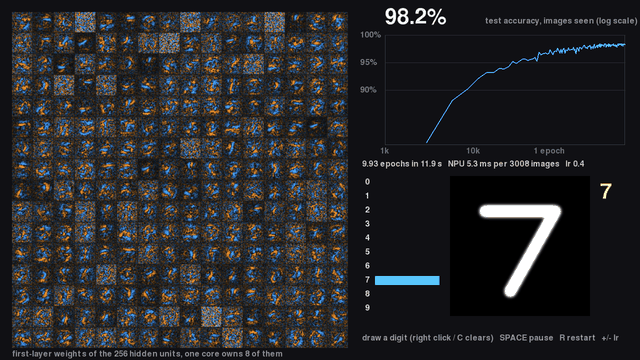
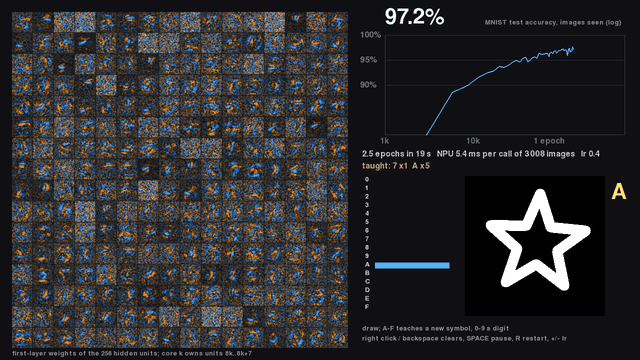
mnist_npu: teach it new symbols live (classes A-F), 16-class output
The six spare logits are live classes now. In --window, draw a symbol and
press A-F (or a digit): an eighth of every following minibatch is the
taught examples, augmented (shift, rotation, scale) and mixed into MNIST.
Five stars as "A" are enough for a new star to be recognised after a few
seconds of training while MNIST stays at 97%. The README picture shows it.

diff --git a/fun/mnist_npu.py b/fun/mnist_npu.py
@@ -3,7 +3,9 @@
 
   ./env.sh python fun/mnist_npu.py --selftest        init bit-exact vs numpy, one step vs a numpy replica, 1 epoch
   ./env.sh python fun/mnist_npu.py --epochs 5        train, test accuracy after every epoch, NPU time per epoch
-  ./env.sh python fun/mnist_npu.py --window          watch it learn: weights, accuracy curve, draw a digit (mouse)
+  ./env.sh python fun/mnist_npu.py --window          watch it learn: weights, accuracy curve, draw a digit (mouse),
+                                                     teach it new symbols (draw, then press A-F)
+  ./env.sh python fun/mnist_npu.py --bench           one epoch per dispatch, back to back
 
 A 784-256-10 multilayer perceptron (ReLU, softmax cross-entropy, plain SGD, batch 64) trained with bf16 matmuls into
 fp32 accumulators and fp32 master weights. Model parallel: core k (along a snake through the 32 cores, so that
@@ -33,7 +35,7 @@ CPB = 7                         # pixel blocks per chunk
 NCH = NPB // CPB                # chunks per pass
 XOBJ = CPB * NBB * 128          # bytes of a stream object (7168): bf16 tiles
 NHID, UPC = 256, 8              # hidden units, units per core
-NOUT = 16                       # logits padded to 16 (10 used)
+NOUT = 16                       # classes: 10 digits + 6 symbols the window can teach
 DOBJ = 3136                     # dump object bytes (W1 slice = 8 objects)
 NDUMP = 9
 COLS, ROWS = 8, 4
@@ -120,7 +122,7 @@ class Model:
 
     @classmethod
     def init(cls, seed):
-        W1 = np.zeros((784, NHID), np.float32); W2 = np.zeros((NHID, 10), np.float32)
+        W1 = np.zeros((784, NHID), np.float32); W2 = np.zeros((NHID, NOUT), np.float32)
         for k in range(NCORE):
             w1, s = xorshift_init(seed, k, NPB * 64, 27)
             W1[:, k * UPC:(k + 1) * UPC] = np.transpose(w1.reshape(NPB, UPC, 8), (0, 2, 1)).reshape(784, UPC)
@@ -128,14 +130,13 @@ class Model:
             for i in range(4):
                 s ^= s << np.uint32(13); s ^= s >> np.uint32(17); s ^= s << np.uint32(5)
                 w2[i * 32:(i + 1) * 32] = (s.view(np.int32) >> 8).astype(np.float32) * np.float32(2.0 ** -26)
-            w2 = w2.reshape(16, UPC)                                    # [o][u]
-            W2[k * UPC:(k + 1) * UPC] = w2[:10].T
-        return cls(W1, np.zeros(NHID, np.float32), W2, np.zeros(10, np.float32))
+            W2[k * UPC:(k + 1) * UPC] = w2.reshape(NOUT, UPC).T              # [o][u]
+        return cls(W1, np.zeros(NHID, np.float32), W2, np.zeros(NOUT, np.float32))
 
     @classmethod
     def from_dump(cls, dump):
         """dump: (NCORE, NDUMP * DOBJ) bytes in snake order."""
-        W1 = np.zeros((784, NHID), np.float32); W2 = np.zeros((NHID, 10), np.float32); b1 = np.zeros(NHID, np.float32)
+        W1 = np.zeros((784, NHID), np.float32); W2 = np.zeros((NHID, NOUT), np.float32); b1 = np.zeros(NHID, np.float32)
         b2 = None; stats = None
         for k in range(NCORE):
             d = dump[k]
@@ -143,10 +144,10 @@ class Model:
             W1[:, k * UPC:(k + 1) * UPC] = np.transpose(w1, (0, 2, 1)).reshape(784, UPC)
             t = d[8 * DOBJ:9 * DOBJ].view(np.float32)
             w2t = t[:128].reshape(16, UPC)                                      # [o][u]
-            W2[k * UPC:(k + 1) * UPC] = w2t[:10].T
+            W2[k * UPC:(k + 1) * UPC] = w2t.T
             b1[k * UPC:(k + 1) * UPC] = t[128:192].reshape(UPC, 8)[:, 0]
             if k == NCORE - 1:
-                b2 = t[192:320].reshape(16, 8)[:10, 0].copy()
+                b2 = t[192:320].reshape(16, 8)[:, 0].copy()
                 stats = d[9 * DOBJ - 64:9 * DOBJ].view(np.int32)
         cls.prof = np.stack([dump[k][9 * DOBJ - 144:9 * DOBJ - 64].view(np.uint32) for k in range(NCORE)])
         return cls(W1, b1, W2, b2), stats
@@ -197,7 +198,7 @@ alignas(64) static bf hT[NBB * 64], dhT[NBB * 64];
 alignas(64) static float W2T[2 * 64];            // [half][o][u]
 alignas(64) static bf W2Tb[2 * 64], W2b[2 * 64]; // bf16 W2^T tiles [o][u] and W2 tiles [u][o]
 alignas(64) static float b1T[64];                // [u][b] = b1[u]
-alignas(64) static float b2T[2 * 64];            // [half][o][b] = b2[o]; unused logits sit at -1e4
+alignas(64) static float b2T[2 * 64];            // [half][o][b] = b2[o]; classes 10..15 are for symbols taught live
 alignas(64) static bf GT[NBB * 2 * 64];          // last core: its own copy of G
 alignas(64) static bf ONES[64];
 alignas(64) static int32_t lab[64];
@@ -250,9 +251,8 @@ static void COLD init_weights(uint32_t seed) {
         if (i < NPB * 2) aie::store_v(W1T + 32 * i, aie::to_float<float>(si, 27));
         else aie::store_v(W2T + 32 * (i - NPB * 2), aie::to_float<float>(si, 26));
     }
-    for (int l = 16; l < 64; l++) W2T[64 + l] = 0.f;      // logits 10..15 unused
     aie::store_v(b1T, aie::zeros<float, 32>()); aie::store_v(b1T + 32, aie::zeros<float, 32>());
-    for (int l = 0; l < 128; l++) b2T[l] = (l >= 64 + 16) ? -1.0e4f : 0.f;
+    for (int l = 0; l < 128; l += 32) aie::store_v(b2T + l, aie::zeros<float, 32>());
 }
 
 // ---- control object: magic, init flag, seed, -lr/B (fp32 bits, already bf16-exact)
@@ -664,18 +664,48 @@ def train(epochs, seed=1, lr=0.4, verbose=True):
     return model, hist
 
 
+CLASS_NAMES = [str(d) for d in range(10)] + list("ABCDEF")
+
+
+def to_mnist(img):
+    """A drawing (float 0..1, any size) the way MNIST was made: the ink's bounding box scaled into 20x20, centred by
+    centre of mass in 28x28. Returns uint8 (784,) or None for an empty drawing."""
+    import cv2
+    ys, xs = np.nonzero(img > 0.1)
+    if len(ys) == 0: return None
+    y0, y1, x0, x1 = ys.min(), ys.max() + 1, xs.min(), xs.max() + 1
+    crop = img[y0:y1, x0:x1]; h, w = crop.shape; s_ = 20.0 / max(h, w)
+    crop = cv2.resize(crop, (max(1, round(w * s_)), max(1, round(h * s_))), interpolation=cv2.INTER_AREA)
+    out = np.zeros((28, 28), np.float32); h, w = crop.shape
+    out[(28 - h) // 2:(28 - h) // 2 + h, (28 - w) // 2:(28 - w) // 2 + w] = crop
+    cy, cx = np.average(np.indices(out.shape), axis=(1, 2), weights=out + 1e-9)
+    out = cv2.warpAffine(out, np.float32([[1, 0, 14 - cx], [0, 1, 14 - cy]]), (28, 28))
+    return (np.clip(out, 0, 1) * 255).astype(np.uint8).reshape(784)
+
+
+def augment(x, rng):
+    """A taught example, slightly moved, turned and scaled."""
+    import cv2
+    a = np.deg2rad(rng.uniform(-12, 12)); sc = rng.uniform(0.85, 1.12); tx, ty = rng.uniform(-2, 2, 2)
+    M_ = np.float32([[sc * np.cos(a), -sc * np.sin(a), 0], [sc * np.sin(a), sc * np.cos(a), 0]])
+    M_[:, 2] = np.array([14, 14]) - M_[:, :2] @ np.array([14, 14]) + [tx, ty]
+    return cv2.warpAffine(x.reshape(28, 28), M_, (28, 28)).reshape(784)
+
+
 def window(lr=0.4, seed=1, nmb=47, seconds=None, shot=None):
-    """Watch it learn: first-layer weights, test accuracy, and a drawing pad classified with the live weights."""
+    """Watch it learn: first-layer weights, test accuracy, a drawing pad classified with the live weights, and new
+    symbols taught by drawing them (keys A-F; 0-9 adds an example of a digit)."""
     import pygame
     Xtr, ytr, Xte, yte = load_mnist()
     t = TrainerNPU(nmb); rng = np.random.default_rng(seed)
     pygame.init(); W, H = 1280, 720
     screen = pygame.display.set_mode((W, H)); pygame.display.set_caption("The NPU learns MNIST")
-    font = pygame.font.SysFont(None, 24); big = pygame.font.SysFont(None, 64)
-    pad = np.zeros((280, 280), np.float32); pad_rect = pygame.Rect(900, 352, 280, 280)
+    font = pygame.font.SysFont(None, 24); small = pygame.font.SysFont(None, 20); big = pygame.font.SysFont(None, 64)
+    pad = np.zeros((280, 280), np.float32); pad_rect = pygame.Rect(930, 352, 280, 280)
     perm = rng.permutation(len(Xtr)); pos = 0; seen = 0; hist = []; t0 = time.perf_counter()
     model = None; init = True; paused = False; cur_lr = lr; npu_ms = []; last_call = 0.0
     sub = rng.choice(len(Xte), 2000, replace=False)
+    taught = {c: [] for c in range(NOUT)}; flash = ""; flash_t = 0.0
 
     def weights_surface(m):
         w = m.W1.T.reshape(NHID, 28, 28)
@@ -687,84 +717,120 @@ def window(lr=0.4, seed=1, nmb=47, seconds=None, shot=None):
         tiles = np.clip(tiles.reshape(464, 464, 3), 0, 255).astype(np.uint8)
         return pygame.transform.smoothscale(pygame.surfarray.make_surface(np.transpose(tiles, (1, 0, 2))), (672, 672))
 
-    def pad_input():
-        import cv2
-        img = cv2.resize(pad, (20, 20), interpolation=cv2.INTER_AREA)
-        if img.sum() < 1e-3: return None
-        ys, xs = np.nonzero(img > 0.05); cy, cx = (np.average(np.indices(img.shape), axis=(1, 2), weights=img + 1e-9))
-        out = np.zeros((28, 28), np.float32); oy, ox = int(round(14 - cy)), int(round(14 - cx))
-        oy = min(max(oy, 0), 8); ox = min(max(ox, 0), 8); out[oy:oy + 20, ox:ox + 20] = img
-        return (np.clip(out, 0, 1) * 255).astype(np.uint8).reshape(1, 784)
+    def batch():
+        """The next call's images: MNIST in order of a shuffle, with an eighth of them taught examples if any."""
+        nonlocal perm, pos
+        n = nmb * B
+        if pos + n > len(Xtr): perm = rng.permutation(len(Xtr)); pos = 0
+        idx = perm[pos:pos + n]; pos += n
+        ex = [(x, c) for c in taught for x in taught[c]]
+        if not ex: return Xtr, ytr, idx
+        X = Xtr[idx].copy(); y = ytr[idx].copy()
+        k = n // 8; slots = rng.choice(n, k, replace=False)
+        pick = rng.integers(0, len(ex), k)
+        X[slots] = np.stack([augment(ex[i][0], rng) for i in pick]); y[slots] = [ex[i][1] for i in pick]
+        return X, y, np.arange(n)
 
-    drawing = False
-    if shot:                                                            # a synthetic "7" on the pad for the picture
+    def draw_stroke(points, width=20):
         import cv2
-        cv2.line(pad, (70, 70), (210, 70), 1.0, 22); cv2.line(pad, (210, 70), (120, 230), 1.0, 22); pad[:] = cv2.GaussianBlur(pad, (0, 0), 3) * 1.6
-        np.clip(pad, 0, 1, out=pad)
+        for a_, b_ in zip(points[:-1], points[1:]):
+            cv2.line(pad, (int(a_[0]), int(a_[1])), (int(b_[0]), int(b_[1])), 1.0, width)
+
+    demo = []
+    if shot:                                                            # the picture: teach a star as "A", then draw one
+        import cv2
+        def star(cx, cy, r, rot):
+            pts = [(cx + r * (1 if i % 2 == 0 else 0.42) * np.sin(rot + i * np.pi / 5), cy - r * (1 if i % 2 == 0 else 0.42) * np.cos(rot + i * np.pi / 5)) for i in range(11)]
+            return pts
+        demo = [("teach", 10, star(140 + dx, 140 + dy, r, rot)) for dx, dy, r, rot in
+                ((0, 0, 110, 0), (-10, 5, 95, 0.1), (8, -6, 100, -0.08), (0, 10, 85, 0.05), (5, 0, 105, -0.12))]
+        demo += [("teach", 7, [(70, 70), (210, 70), (120, 230)])]
+        demo += [("show", None, star(145, 135, 100, 0.06))]
+
+    drawing = False; last_xy = None; t_demo = t0
     while True:
         if seconds and time.perf_counter() - t0 > seconds:
             if shot: pygame.image.save(screen, shot)
             print(f"{seen / 60000:.2f} epochs in {time.perf_counter() - t0:.1f} s, test (2000) {hist[-1][1] * 100:.2f}%, NPU {np.mean(npu_ms):.2f} ms per call of {nmb * B} images")
+            if model is not None:
+                x = to_mnist(pad)
+                if x is not None:
+                    z = model.logits(x[None])[0]; print("pad classified as", CLASS_NAMES[int(z.argmax())])
             return
+        if demo and time.perf_counter() - t_demo > 1.2:                  # scripted teaching for the screenshot
+            kind, cls_, pts = demo.pop(0); pad[:] = 0; draw_stroke(pts); t_demo = time.perf_counter()
+            if kind == "teach":
+                x = to_mnist(pad); taught[cls_].append(x); pad[:] = 0; flash = f"taught {CLASS_NAMES[cls_]}"; flash_t = time.perf_counter()
         for e in pygame.event.get():
             if e.type == pygame.QUIT or (e.type == pygame.KEYDOWN and e.key == pygame.K_ESCAPE): return
-            if e.type == pygame.KEYDOWN and e.key == pygame.K_SPACE: paused = not paused
-            if e.type == pygame.KEYDOWN and e.key == pygame.K_r: init = True; hist = []; seen = 0; t0 = time.perf_counter()
-            if e.type == pygame.KEYDOWN and e.key == pygame.K_c: pad[:] = 0
-            if e.type == pygame.KEYDOWN and e.key in (pygame.K_PLUS, pygame.K_EQUALS, pygame.K_KP_PLUS): cur_lr *= 2
-            if e.type == pygame.KEYDOWN and e.key in (pygame.K_MINUS, pygame.K_KP_MINUS): cur_lr /= 2
+            if e.type == pygame.KEYDOWN:
+                if e.key == pygame.K_SPACE: paused = not paused
+                elif e.key == pygame.K_r: init = True; hist = []; seen = 0; t0 = time.perf_counter(); taught = {c: [] for c in range(NOUT)}
+                elif e.key in (pygame.K_BACKSPACE, pygame.K_DELETE): pad[:] = 0
+                elif e.key in (pygame.K_PLUS, pygame.K_EQUALS, pygame.K_KP_PLUS): cur_lr *= 2
+                elif e.key in (pygame.K_MINUS, pygame.K_KP_MINUS): cur_lr /= 2
+                else:
+                    name = pygame.key.name(e.key).upper()
+                    if name in CLASS_NAMES:
+                        x = to_mnist(pad)
+                        if x is not None:
+                            c = CLASS_NAMES.index(name); taught[c].append(x); pad[:] = 0
+                            flash = f"example {len(taught[c])} of {name} added"; flash_t = time.perf_counter()
             if e.type == pygame.MOUSEBUTTONDOWN and pad_rect.collidepoint(e.pos):
                 if e.button == 3: pad[:] = 0
-                else: drawing = True
+                else: drawing = True; last_xy = None
             if e.type == pygame.MOUSEBUTTONUP: drawing = False
         if drawing:
             mx, my = pygame.mouse.get_pos()
             if pad_rect.collidepoint(mx, my):
-                yy, xx = np.ogrid[:280, :280]
-                pad[:] = np.maximum(pad, np.clip(1.5 - np.hypot(yy - (my - pad_rect.y), xx - (mx - pad_rect.x)) / 9, 0, 1))
+                xy = (mx - pad_rect.x, my - pad_rect.y)
+                draw_stroke([last_xy or xy, xy]); last_xy = xy
         now = time.perf_counter()
         if not paused or now - last_call > 1.0:                        # paused: lr 0 calls keep the weights alive
-            if pos + nmb * B > len(Xtr): perm = rng.permutation(len(Xtr)); pos = 0
-            idx = perm[pos:pos + nmb * B]
-            model, st = t.run(Xtr, ytr, idx, init=init, seed=seed, lr=0.0 if paused else cur_lr); last_call = now
+            X, y, idx = batch()
+            model, st = t.run(X, y, idx, init=init, seed=seed, lr=0.0 if paused else cur_lr); last_call = now
             if not st[2] and not init: init = True; continue
             init = False
             if not paused:
-                pos += nmb * B; seen += nmb * B; npu_ms.append(t.ms)
+                seen += nmb * B; npu_ms.append(t.ms)
                 hist.append((seen, model.accuracy(Xte[sub], yte[sub])))
         screen.fill((16, 16, 20))
-        if model is not None:
-            screen.blit(weights_surface(model), (24, 24))
-            gx, gy, gw, gh = 770, 70, 480, 220
-            pygame.draw.rect(screen, (60, 60, 70), (gx, gy, gw, gh), 1)
-            for a in (0.9, 0.95, 1.0):
-                yy = gy + gh - (a - 0.8) / 0.2 * gh
-                pygame.draw.line(screen, (45, 45, 55), (gx, yy), (gx + gw, yy)); screen.blit(font.render(f"{a:.0%}", True, (120, 120, 130)), (gx - 50, yy - 8))
-            lx = lambda n: gx + (np.log10(max(n, 1000)) - 3) / (np.log10(max(hist[-1][0] if hist else 1, 600000)) - 3) * gw
-            for n_, lab_ in ((1000, "1k"), (10000, "10k"), (60000, "1 epoch"), (600000, "10 epochs")):
-                if hist and lx(n_) + 8 * len(lab_) <= gx + gw: screen.blit(font.render(lab_, True, (110, 110, 120)), (lx(n_) - 10, gy + gh + 4))
-            if len(hist) > 1:
-                pts = [(lx(s_), gy + gh - min(max((a_ - 0.8) / 0.2, 0), 1) * gh) for s_, a_ in hist]
-                pygame.draw.lines(screen, (90, 200, 255), False, pts, 2)
-            acc = hist[-1][1] if hist else 0
-            screen.blit(big.render(f"{acc * 100:.1f}%", True, (240, 240, 240)), (gx, 12))
-            screen.blit(font.render("test accuracy, images seen (log scale)", True, (140, 140, 150)), (gx + 200, 34))
-            ms = np.mean(npu_ms[-20:]) if npu_ms else 0
-            info = f"{seen / 60000:.2f} epochs in {now - t0:.1f} s   NPU {ms:.1f} ms per {nmb * B} images   lr {cur_lr:g}" + ("   PAUSED" if paused else "")
-            screen.blit(font.render(info, True, (200, 200, 200)), (724, gy + gh + 30))
-            screen.blit(font.render("draw a digit (right click / C clears)   SPACE pause   R restart   +/- lr", True, (150, 150, 160)), (724, 668))
-            screen.blit(font.render("first-layer weights of the 256 hidden units, one core owns 8 of them", True, (140, 140, 150)), (24, 700))
-            pygame.draw.rect(screen, (40, 40, 48), pad_rect)
-            surf = pygame.surfarray.make_surface(np.transpose(np.repeat((pad * 255).astype(np.uint8)[:, :, None], 3, 2), (1, 0, 2)))
-            screen.blit(surf, pad_rect.topleft)
-            x = pad_input()
-            if x is not None:
-                z = model.logits(x)[0]; p = np.exp(z - z.max()); p /= p.sum()
-                for d in range(10):
-                    yb = 352 + d * 28
-                    pygame.draw.rect(screen, (90, 200, 255) if d == p.argmax() else (70, 90, 110), (750, yb + 4, int(p[d] * 130), 18))
-                    screen.blit(font.render(str(d), True, (220, 220, 220)), (730, yb + 4))
-                screen.blit(big.render(str(int(p.argmax())), True, (255, 220, 120)), (1200, 362))
+        if model is None: pygame.display.flip(); continue
+        screen.blit(weights_surface(model), (24, 24))
+        screen.blit(small.render("first-layer weights of the 256 hidden units; core k owns units 8k..8k+7", True, (140, 140, 150)), (24, 700))
+        gx, gy, gw, gh = 770, 70, 480, 200
+        pygame.draw.rect(screen, (60, 60, 70), (gx, gy, gw, gh), 1)
+        for a in (0.9, 0.95, 1.0):
+            yy = gy + gh - (a - 0.8) / 0.2 * gh
+            pygame.draw.line(screen, (45, 45, 55), (gx, yy), (gx + gw, yy)); screen.blit(font.render(f"{a:.0%}", True, (120, 120, 130)), (gx - 50, yy - 8))
+        lx = lambda n: gx + (np.log10(max(n, 1000)) - 3) / (np.log10(max(hist[-1][0] if hist else 1, 600000)) - 3) * gw
+        for n_, lab_ in ((1000, "1k"), (10000, "10k"), (60000, "1 epoch"), (600000, "10 epochs")):
+            if hist and lx(n_) + 8 * len(lab_) <= gx + gw: screen.blit(font.render(lab_, True, (110, 110, 120)), (lx(n_) - 10, gy + gh + 4))
+        if len(hist) > 1:
+            pts = [(lx(s_), gy + gh - min(max((a_ - 0.8) / 0.2, 0), 1) * gh) for s_, a_ in hist]
+            pygame.draw.lines(screen, (90, 200, 255), False, pts, 2)
+        acc = hist[-1][1] if hist else 0
+        screen.blit(big.render(f"{acc * 100:.1f}%", True, (240, 240, 240)), (gx, 12))
+        screen.blit(small.render("MNIST test accuracy, images seen (log)", True, (140, 140, 150)), (gx + 200, 38))
+        ms = np.mean(npu_ms[-20:]) if npu_ms else 0
+        info = f"{seen / 60000:.1f} epochs in {now - t0:.0f} s   NPU {ms:.1f} ms per call of {nmb * B} images   lr {cur_lr:g}" + ("   PAUSED" if paused else "")
+        screen.blit(font.render(info, True, (200, 200, 200)), (724, gy + gh + 30))
+        nt = {CLASS_NAMES[c]: len(v) for c, v in taught.items() if v}
+        screen.blit(font.render("taught: " + ("  ".join(f"{k} x{v}" for k, v in nt.items()) if nt else "nothing yet (draw, then press A-F or a digit)"), True, (200, 180, 120)), (724, gy + gh + 54))
+        if flash and now - flash_t < 2: screen.blit(font.render(flash, True, (255, 220, 120)), (930, 330))
+        pygame.draw.rect(screen, (40, 40, 48), pad_rect)
+        surf = pygame.surfarray.make_surface(np.transpose(np.repeat((pad * 255).astype(np.uint8)[:, :, None], 3, 2), (1, 0, 2)))
+        screen.blit(surf, pad_rect.topleft)
+        screen.blit(small.render("draw; A-F teaches a new symbol, 0-9 a digit", True, (150, 150, 160)), (724, 650))
+        screen.blit(small.render("right click / backspace clears, SPACE pause, R restart, +/- lr", True, (150, 150, 160)), (724, 670))
+        x = to_mnist(pad)
+        if x is not None:
+            z = model.logits(x[None])[0]; p = np.exp(z - z.max()); p /= p.sum()
+            for d in range(NOUT):
+                yb = 352 + d * 17
+                pygame.draw.rect(screen, (90, 200, 255) if d == p.argmax() else (70, 90, 110), (750, yb + 3, int(p[d] * 150), 12))
+                screen.blit(small.render(CLASS_NAMES[d], True, (220, 220, 220)), (730, yb))
+            screen.blit(big.render(CLASS_NAMES[int(p.argmax())], True, (255, 220, 120)), (1222, 362))
         pygame.display.flip()
 
 

diff --git a/README.md b/README.md
@@ -123,7 +123,7 @@ stated, min or median after a warm-up call, host wall clock from Python unless t
 | DX7 FM synth, 512 voices x 6 operators, 256-sample blocks | 0.5 ms per block (5.3 ms of audio), 1.6 G operator-samples/s, bit-exact replica (`fun/dx7.py`) |
 | NAM guitar amp (WaveNet, 13320 MAC/sample), 64-sample blocks, 16 cores per amp | 0.54 ms per block (1.33 ms of audio) for two amps at once, 65.9 dB SNR vs the float32 model with bf16 hi+lo pairs, 48 dB with single bf16 weights; live at 1.3 ms blocks, no underruns (`fun/nam_amp.py`) |
 | Fast neural style transfer (Johnson TransformerNet, 1.68 M params, 13.8 GMAC per 320x240 frame), int8, 31 phases on 32 cores in one dispatch | **16.7 ms per frame on the NPU**, 18.6 ms (54 fps) for the whole Python call with upload and readback; 45-52 dB PSNR from a numpy emulation of the int8 design, which is 27-45 dB from the float32 model depending on the style (`fun/style_cam.py`) |
-| MNIST training (784-256-10 MLP, bf16 matmuls, fp32 master weights resident in L1, model parallel over 32 cores), 937 minibatches of 64 per dispatch | **49.5 ms per epoch** on the NPU back to back (84 ms when the 200 MB stream was just rewritten; numpy fp32 on the CPU: 280 ms), 96.5% test accuracy after one epoch, 97.9% after five (numpy, same setup: 96.7 / 97.9); initialisation bit-exact, one SGD step within 1-3% of a bf16 numpy replica (`fun/mnist_npu.py`) |
+| MNIST training (784-256-10 MLP, bf16 matmuls, fp32 master weights resident in L1, model parallel over 32 cores), 937 minibatches of 64 per dispatch | **49.5 ms per epoch** on the NPU back to back (84 ms when the 200 MB stream was just rewritten; numpy fp32 on the CPU: 280 ms), 96.4% test accuracy after one epoch, 97.9% after five (numpy, same setup: 96.7 / 97.9); initialisation bit-exact, one SGD step within about 1% of a bf16 numpy replica (`fun/mnist_npu.py`) |
 | Additive synth, 3072 partials, 1024-sample blocks | 0.38 ms per block (21 ms of audio: 56x real time for all 3072 partials) = 8 G partial-samples/s, amplitude drift-free, 0.03 Hz tuning (`fun/additive.py`) |
 | Binaural, 32 sources x 2 ears x 160 taps, 1024-sample blocks | 0.28 ms per block (dispatch-bound), bit-exact, 38x real time (`fun/binaural.py`) |
 | conv2d engine 512x512: K=3 / 7 / 15 | 0.27 / 0.35 / 0.91 ms per pass, 1-4 LSB vs numpy (`fun/conv2d.py`) |
@@ -173,7 +173,7 @@ Batch work per dispatch; keep one call per frame.
 | `dx7.py` | DX7-style FM synth: 512 six-operator voices, voices in the lanes, sine through the lookup unit, the 32 algorithms as data; `--window` plays it from the keyboard, bit-exact numpy replica, `dx7_demo.wav` |
 | `nam_amp.py` | Neural Amp Modeler guitar amps (`.nam` WaveNet captures) as a 16-core pipeline per amp, two amps at once; `--wav` renders a DI through amp and cab IR, `--live` is mic/line in to speakers at 1.3 ms blocks, `--selftest` / `--stages` compare with a float32 reference per core; see the section |
 | `style_cam.py` | fast neural style transfer (the five pytorch/examples styles from the ONNX zoo) as an int8 31-phase pipeline in one dispatch; `--window` live webcam (keys 1-5 pick the style, 0 shows the input), `--vcam /dev/video10` feeds a v4l2loopback virtual camera for video calls (load the module with `exclusive_caps=1`; `--cycle 20` rotates the styles), `--image` restyles a picture, `--selftest` checks every style against the int8 emulation, float32 and onnxruntime, `--phases N --check` one phase at a time; see the section |
-| `mnist_npu.py` | the NPU trains a neural network: MNIST, forward and backward pass and SGD update on all 32 cores, weights never leave the chip; `--epochs N`, `--selftest`, `--window` shows the first-layer weights forming and the accuracy climbing, and classifies what you draw with the live weights; see the section |
+| `mnist_npu.py` | the NPU trains a neural network: MNIST, forward and backward pass and SGD update on all 32 cores, weights never leave the chip; `--epochs N`, `--selftest`, `--bench`, `--window` shows the first-layer weights forming and the accuracy climbing, classifies what you draw with the live weights, and learns new symbols you draw (keys A-F); see the section |
 | `probe/plasma.py` | 3-sine plasma, `--window` |
 | `physarum_route.py` | slime-mould router for KiCad boards (Tero's Physarum solver, every net a tube network competing for space); `--window` / `--video` show the tubes grow, `--write-pcb` writes the tubes as tracks and vias into a copy of the board (opens in KiCad), `--write-pro` writes topor priority net classes. CPU only (sparse direct solves), see the section |
 
@@ -515,7 +515,7 @@ update all on the chip, **one dispatch per epoch, 49.5 ms** with the clocks warm
 (`--bench`; numpy in float32 on the laptop's CPU: 280 ms). In a training loop that writes a fresh shuffle of the
 200 MB stream before every call, the call takes 84 ms (the buffer's cache flush counts), and the host's shuffling,
 done by a second thread, sets the wall clock: 8 epochs in 10.7 s. Accuracy follows the float32 reference: 96.5% on
-the test set after one epoch, 98.1% after five (numpy with the same initialisation and learning rate: 96.7 and 97.9).
+the test set after one epoch, 97.9% after five (numpy with the same initialisation and learning rate: 96.7 and 97.9).
 
 The split is model parallel. Core k of a snake through the 32 cores (so that chain neighbours share memory) owns
 hidden units 8k..8k+7: 784x8 of W1 and 8x10 of W2 as fp32 master weights in its L1 for the whole run (they are only
@@ -533,10 +533,14 @@ every tile oriented so that almost nothing needs transposing:
   in again, `W1^T += dh^T X`.
 
 Checks (`--selftest`): the xorshift initialisation and the dump are bit-exact against a numpy replica; one SGD step
-agrees with a numpy replica that rounds to bf16 where the chip does within 1-3% (the rest is the bf16 `exp2`/`inv`);
-the count of correct answers per minibatch matches. `--window` shows the first-layer weights turning into stroke
-detectors and the accuracy climbing (ten epochs in about 12 s, the display and the host's evaluation included), and
-classifies what you draw with the mouse using the weights the chip has at that moment.
+agrees within about 1% with a numpy replica that rounds to bf16 where the chip does (the rest is the bf16
+`exp2`/`inv`); the count of correct answers per minibatch matches.
+
+`--window` shows the first-layer weights turning into stroke detectors and the accuracy climbing, and classifies
+what you draw with the mouse using the weights the chip has at that moment. The output layer has 16 classes, ten of
+them digits; the other six are for symbols you **teach it live**: draw something, press A-F, and from then on an
+eighth of every minibatch is your examples (slightly moved, turned and scaled) mixed into MNIST. In the picture it
+was given five stars as "A" and recognises a new star after a few seconds of training, while MNIST stays at 97%.
 
 How it got from 92 to 49.5 ms per epoch: the first version added its partial logits to the running sum only after
 receiving it, which made 31 small computations sequential (now the hop is just the add, 80 ms); the last core
@@ -760,7 +764,7 @@ pad-to-pad distance and how much competition it meets along the way, binned into
   labels added); COCO itself: Lin et al. 2014, annotations CC BY 4.0.
 * MNIST (`fun/mnist_npu.py`): Yann LeCun, Corinna Cortes, Christopher J.C. Burges, CC BY-SA 3.0; downloaded to
   `~/models/mnist` from the TensorFlow mirror, not redistributed. `docs/img/mnist_npu.png` shows weights learned
-  from it and a hand-drawn (synthetic) 7, no MNIST images.
+  from it and synthetic stars and a 7 drawn by the script, no MNIST images.
 * `docs/img/style_coco.png` is the same photo restyled by the NPU. The five style networks are the
   [pytorch/examples fast_neural_style](https://github.com/pytorch/examples/tree/main/fast_neural_style) models
   (BSD-3-Clause) as exported to the [ONNX Model Zoo](https://github.com/onnx/models/tree/main/validated/vision/style_transfer/fast_neural_style)
